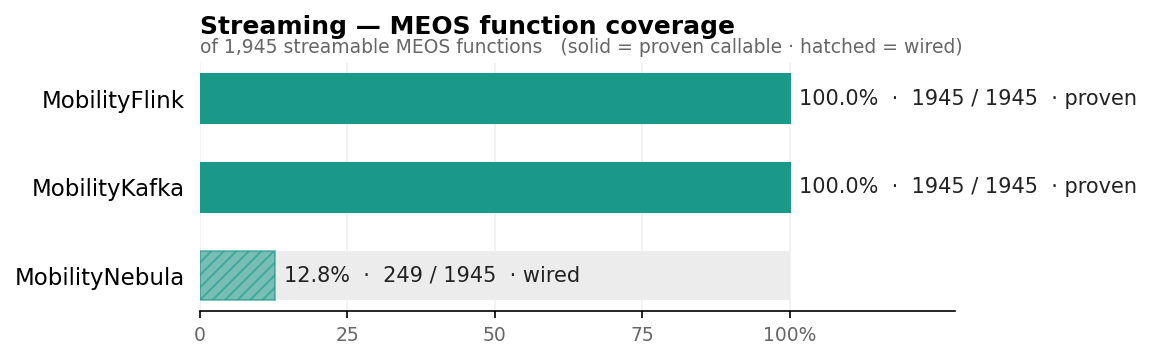
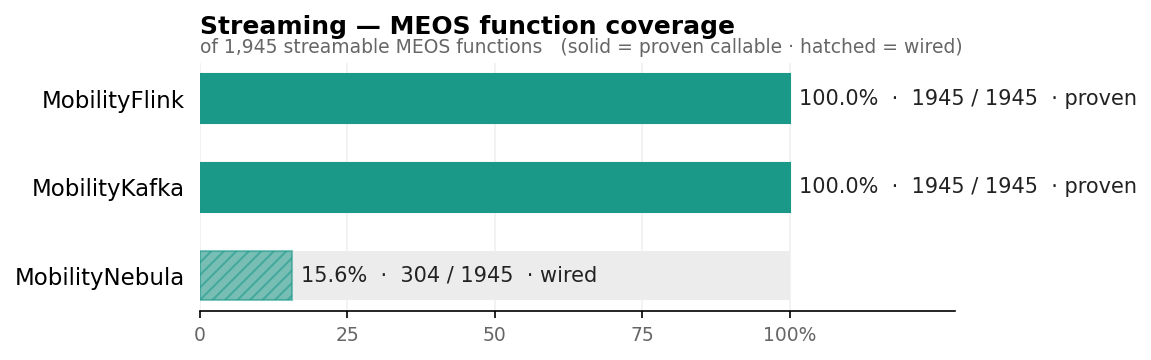
docs(profile): Nebula coverage 249 -> 304 (box/temporal position predicates)

Changed region(s): [[0.2129, 0.6722, 0.5169, 0.8556]]

diff --git a/profile/images/coverage_charts.py b/profile/images/coverage_charts.py
@@ -56,7 +56,7 @@ hbar(
     [
         ("MobilityFlink",  100.0, "100.0%  ·  1945 / 1945  · proven", "#1a9988", True),
         ("MobilityKafka",  100.0, "100.0%  ·  1945 / 1945  · proven", "#1a9988", True),
-        ("MobilityNebula",  12.8, "12.8%  ·  249 / 1945  · wired",    "#1a9988", False),
+        ("MobilityNebula",  15.6, "15.6%  ·  304 / 1945  · wired",    "#1a9988", False),
     ],
     "of 1,945 streamable MEOS functions   (solid = proven callable · hatched = wired)",
 )

diff --git a/profile/streaming-parity.md b/profile/streaming-parity.md
@@ -18,7 +18,7 @@ deploy on real workloads?* — with reproducible evidence rather than assertion.
 
 Coverage of the **1,945 streamable MEOS functions** — confirmed callable on a real `libmeos`:
 
-<img src="https://raw.githubusercontent.com/MobilityDB/.github/main/profile/images/streaming-coverage.png?v=6" width="760" alt="Streaming MEOS function coverage of 1,945 streamable functions: MobilityFlink 100.0% (1945/1945, proven callable), MobilityKafka 100.0% (1945/1945, proven callable), MobilityNebula 12.8% (249/1945, wired)" />
+<img src="https://raw.githubusercontent.com/MobilityDB/.github/main/profile/images/streaming-coverage.png?v=7" width="760" alt="Streaming MEOS function coverage of 1,945 streamable functions: MobilityFlink 100.0% (1945/1945, proven callable), MobilityKafka 100.0% (1945/1945, proven callable), MobilityNebula 15.6% (304/1945, wired)" />
 
 - **Correctness** — all **9 BerlinMOD queries × 3 streaming forms = 27/27 cells** reproduce the batch result on every platform; the Flink snapshot output is **byte-identical** to the batch oracle.
 
@@ -55,7 +55,7 @@ Three layers, increasing in strength:
 |---|--:|--:|--:|
 | **MobilityFlink**  | **1,945 callable** | 1,945 | **100.0 %** |
 | **MobilityKafka**  | **1,945 callable** | 1,945 | **100.0 %** |
-| **MobilityNebula** | 6 systest-confirmed | 249 wired · compile-verified | 12.8 % wired |
+| **MobilityNebula** | 6 systest-confirmed | 304 wired · compile-verified | 15.6 % wired |
 
 Flink and Kafka share one generated JNR-FFI facade, so their callability is identical;
 it is confirmed by a type-aware per-method harness that invokes **every** facade method
